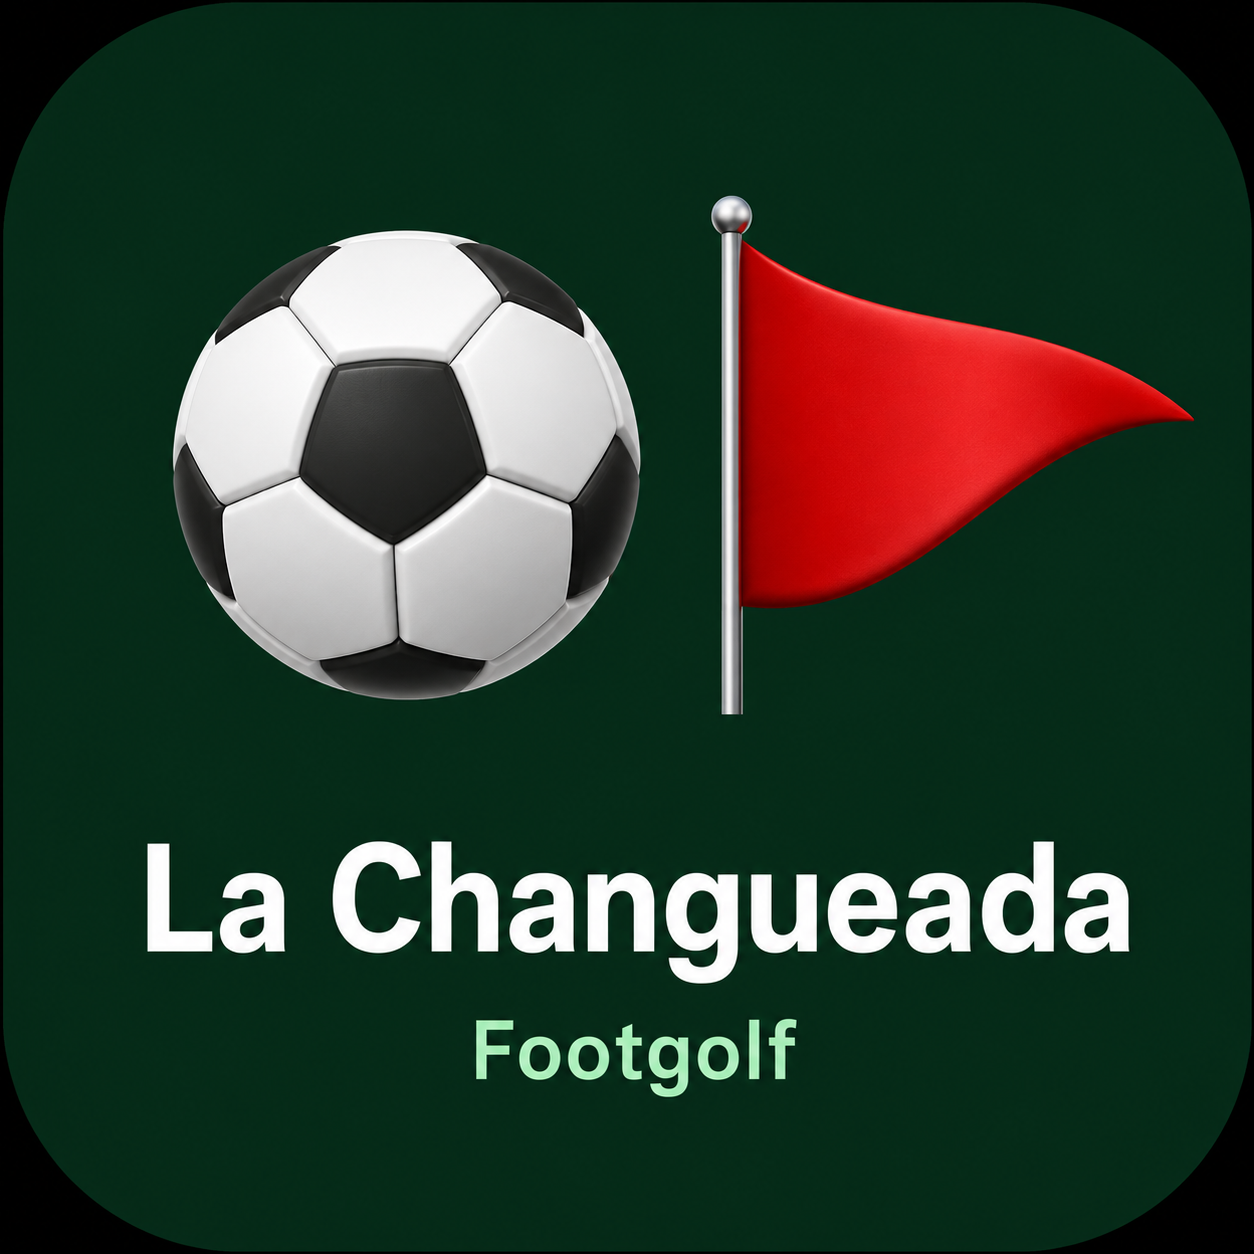
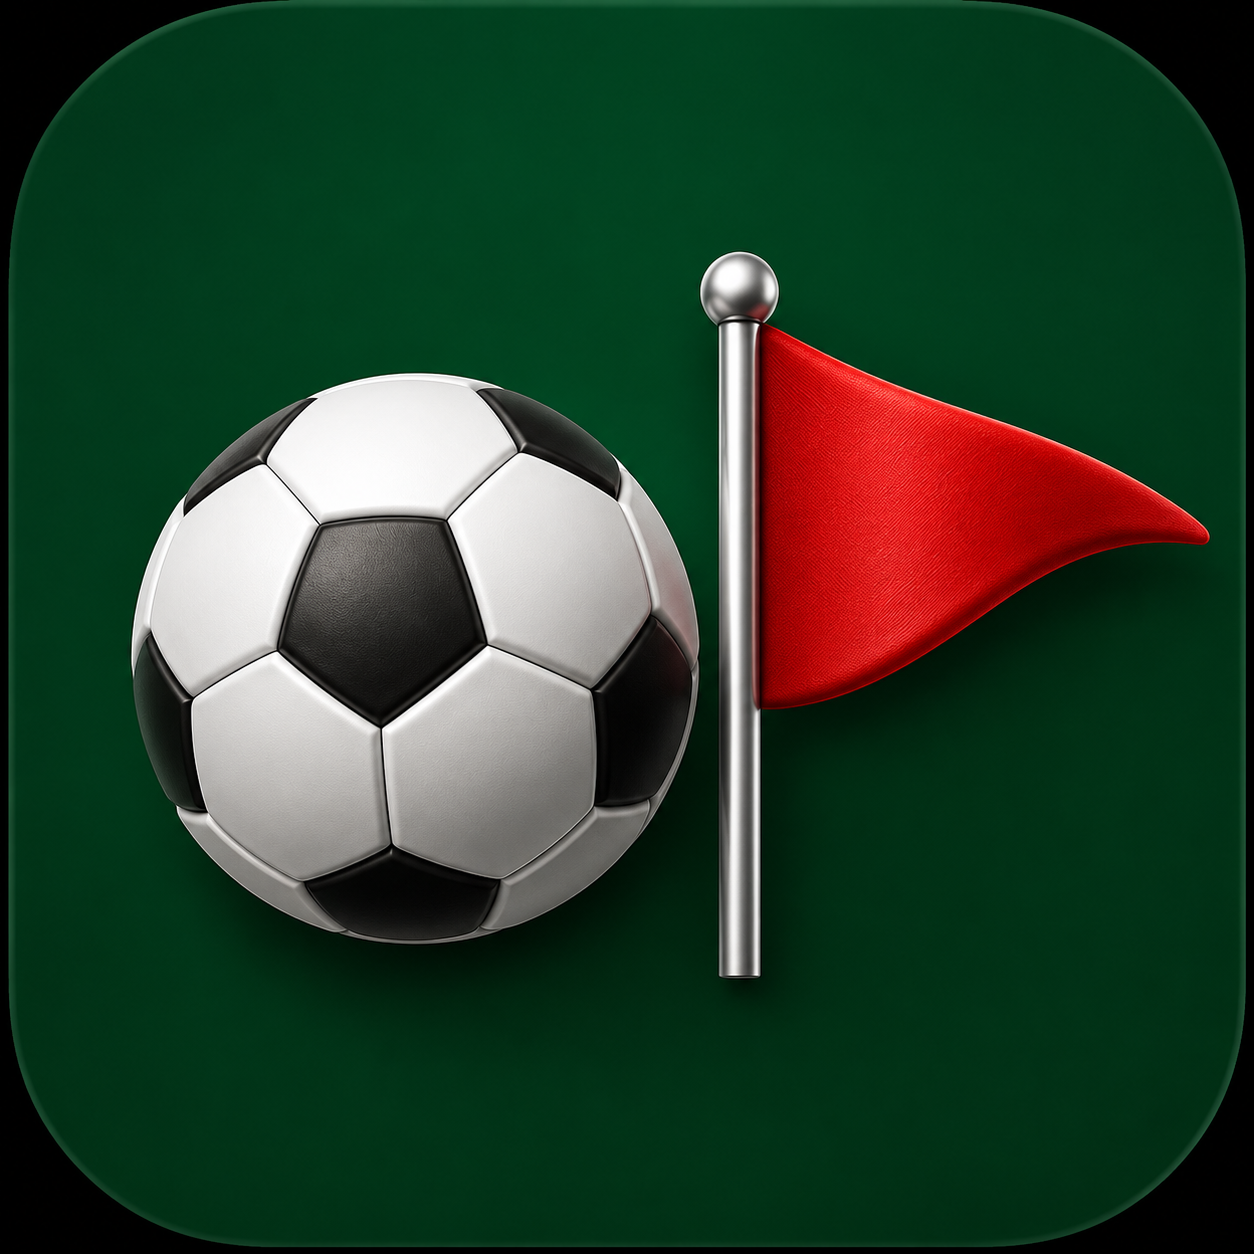
2.27 Iconos sin letras

diff --git a/app/page.tsx b/app/page.tsx
@@ -68,7 +68,7 @@ export default function Home() {
       </div>
 
       <div className="mt-auto pt-8 text-center text-sm tracking-widest text-green-300">
-   v2.26 
+   - v2.27 - 
 </div>
     </main>
   );